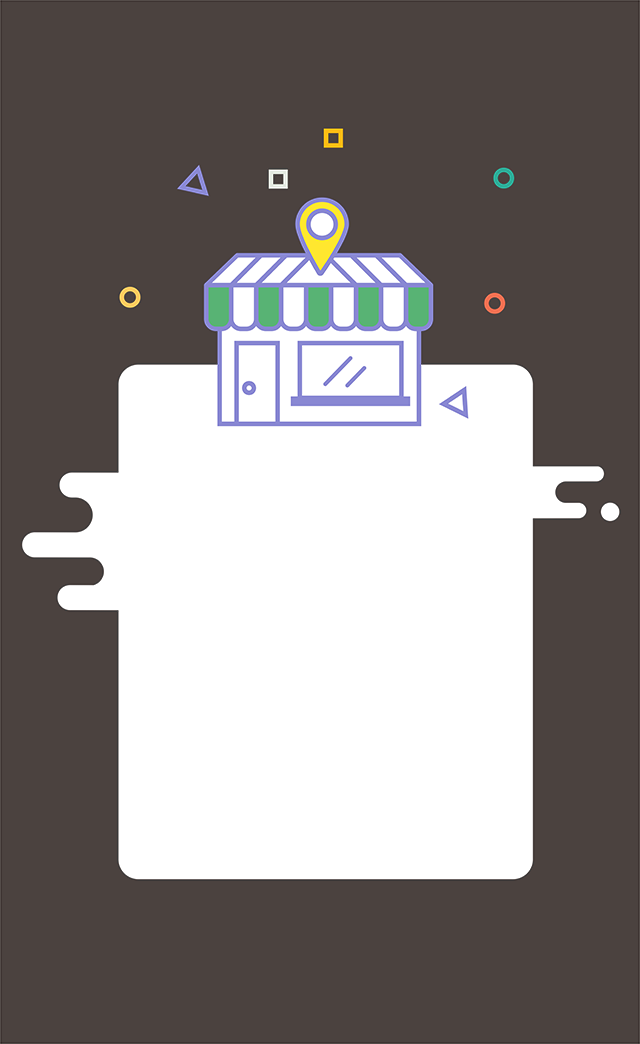
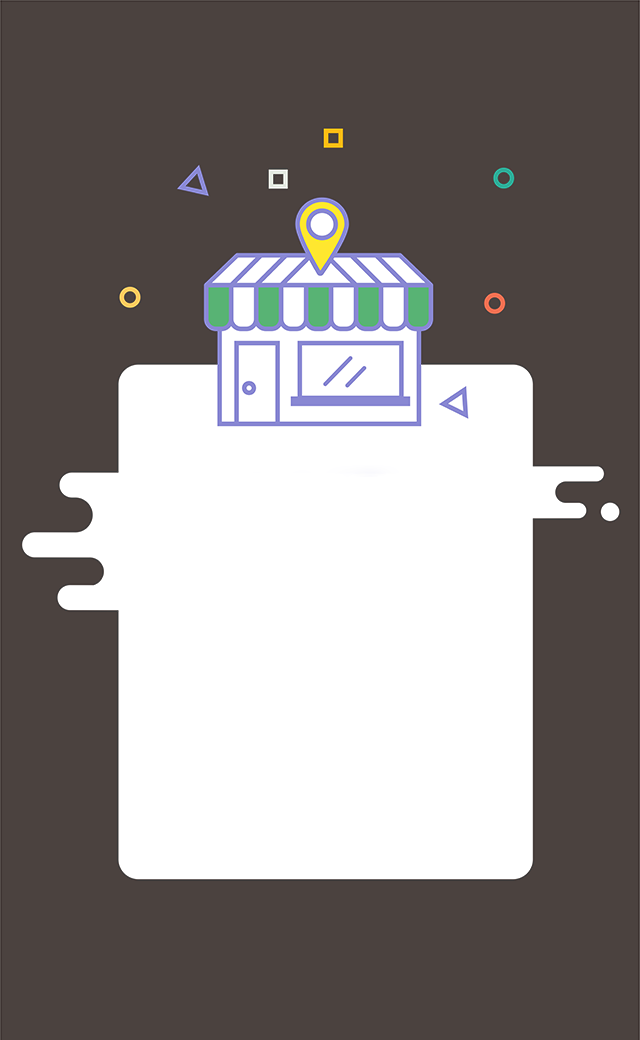
修改爱犬大步走与步数排行榜背景样式

diff --git a/public/vip/css/dog_step.css b/public/vip/css/dog_step.css
@@ -63,7 +63,7 @@ body{
 }
 .mask_store ul{
 	overflow: scroll;
-	height: 350px;
+	height: 320px;
 	margin: 0 auto;
 	padding: 0 26px 0 36px;
 	font-size: 26px;
@@ -141,4 +141,9 @@ body{
 }
 .relation_input input:-ms-input-placeholder {
 	color: #8988d3;
+}
+.dog{
+    position: absolute;
+    right: -40px;
+    bottom: -40px;
 }

diff --git a/resources/views/shop/dog_step.blade.php b/resources/views/shop/dog_step.blade.php
@@ -2,6 +2,7 @@
 <html>
 <head>
 	<title>会员商城</title>
+    <meta charset="utf-8">
 	<meta name="viewport" content="width=640,user-scalable=no">
 	<link rel="stylesheet" type="text/css" href="{{ asset('vip/css/reset.css') }}">
 	<link rel="stylesheet" type="text/css" href="{{ asset('vip/css/dog_step.css') }}">
@@ -53,6 +54,7 @@
 				<li>秦皇岛:茂业HP</li>
 				<li>唐山:万达百货HP</li>
 			</ul>
+            <img src="../images/dog_step/dog.png" class="dog">
 		</div>
 	</div>
 
